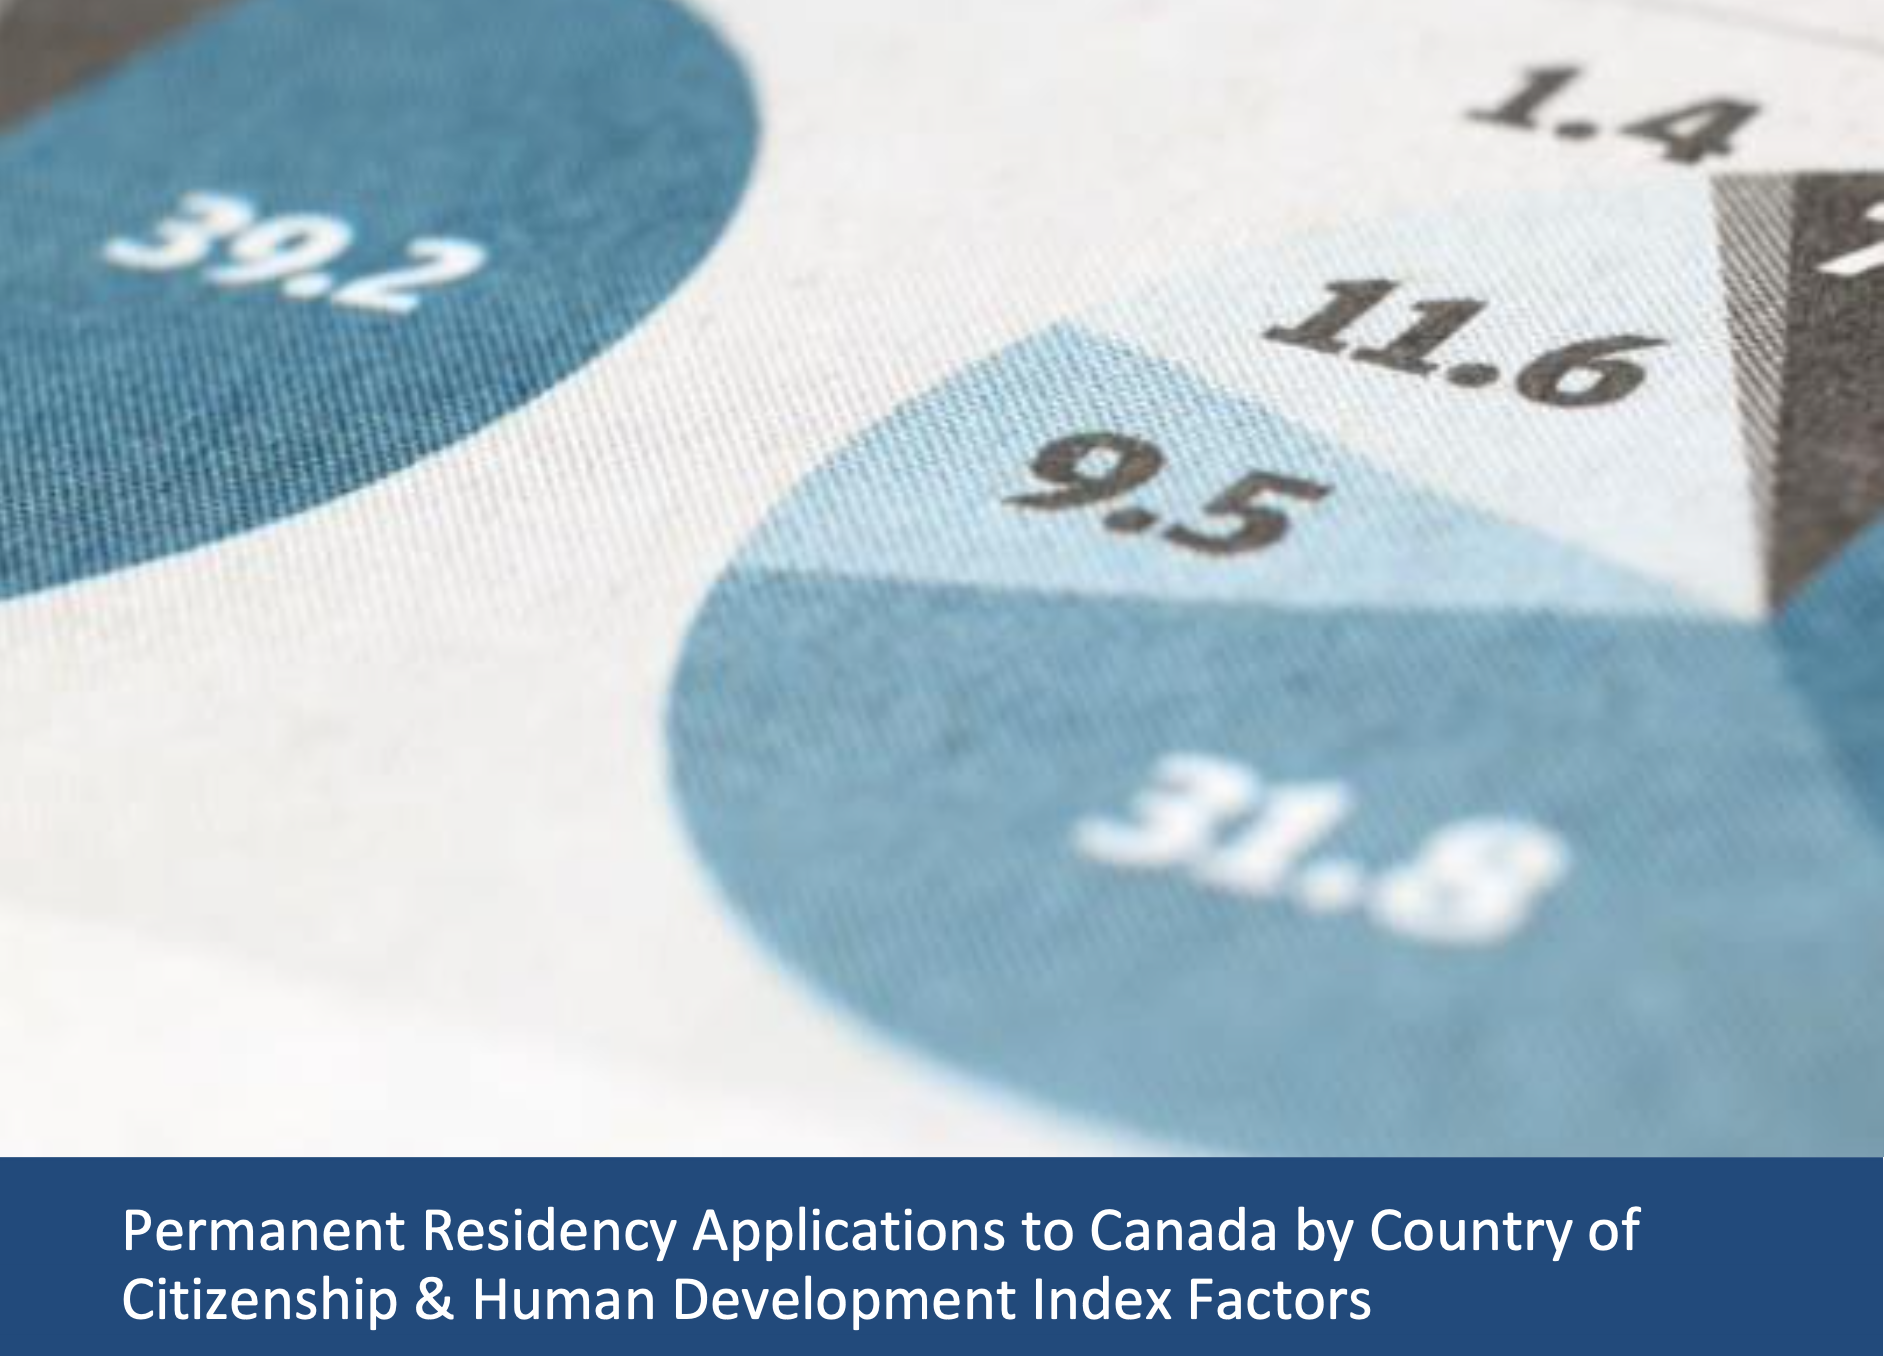
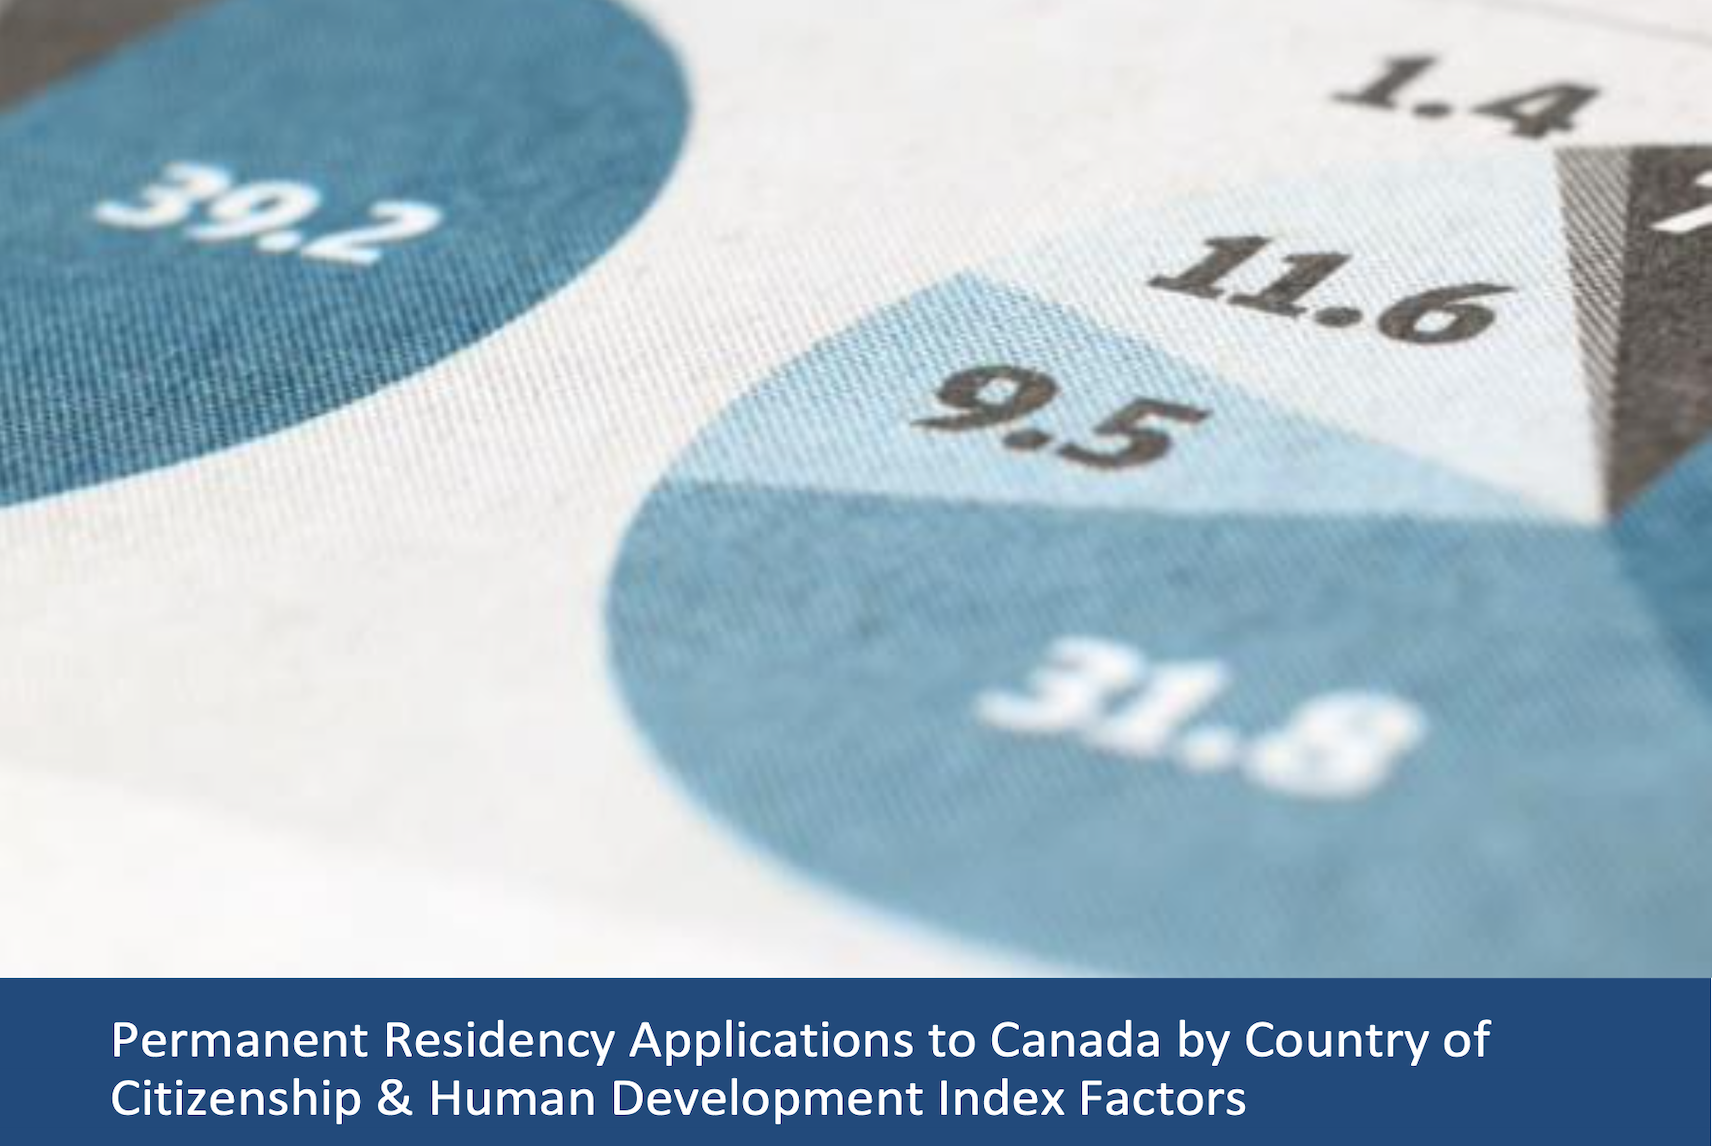
Re-sized image
Image re-sized and featured post description change

diff --git a/index.html b/index.html
@@ -20,7 +20,7 @@
 				<!-- Intro -->
 					<div id="intro">
 						<h1>Anna James' Portfolio<br /></h1>
-						<p>Projects showcasing data cleaning, exploration, statistical analysis, machine learning <br />
+						<p>Projects showcasing machine learning, statistical analysis, data cleaning and data exploration <br />
 						
 						<ul class="actions">
 							<li><a href="#header" class="button icon solid solo fa-arrow-down scrolly">Continue</a></li>
@@ -52,9 +52,10 @@
 								<header class="major">
 									
 									<h2><a href="#">Machine Learning</a></h2>
-									<p>Coming Soon... Classification Models</p>
+									<p>National Collision Data</p>
 								</header>
 								<a href="#" class="image main"><img src="images/NatCollision.jpg" alt="" /></a>
+								<p>Coming soon... Classification models</p>
 								<ul class="actions special">
 									<li><a href="#" class="button large">View Project</a></li>
 								</ul>
